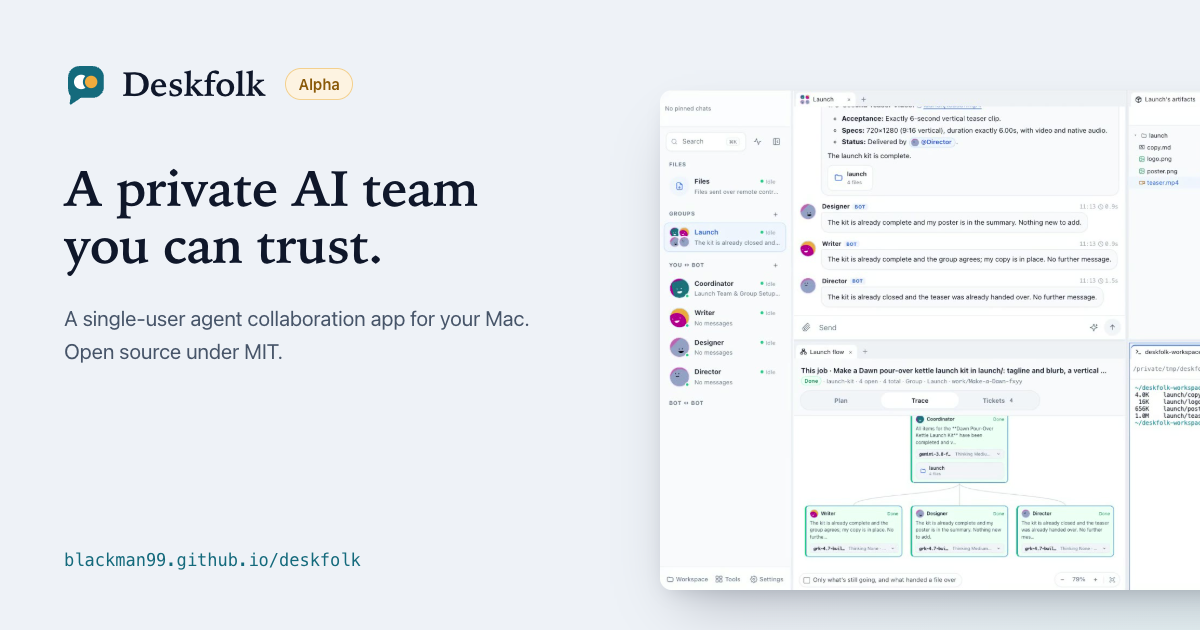
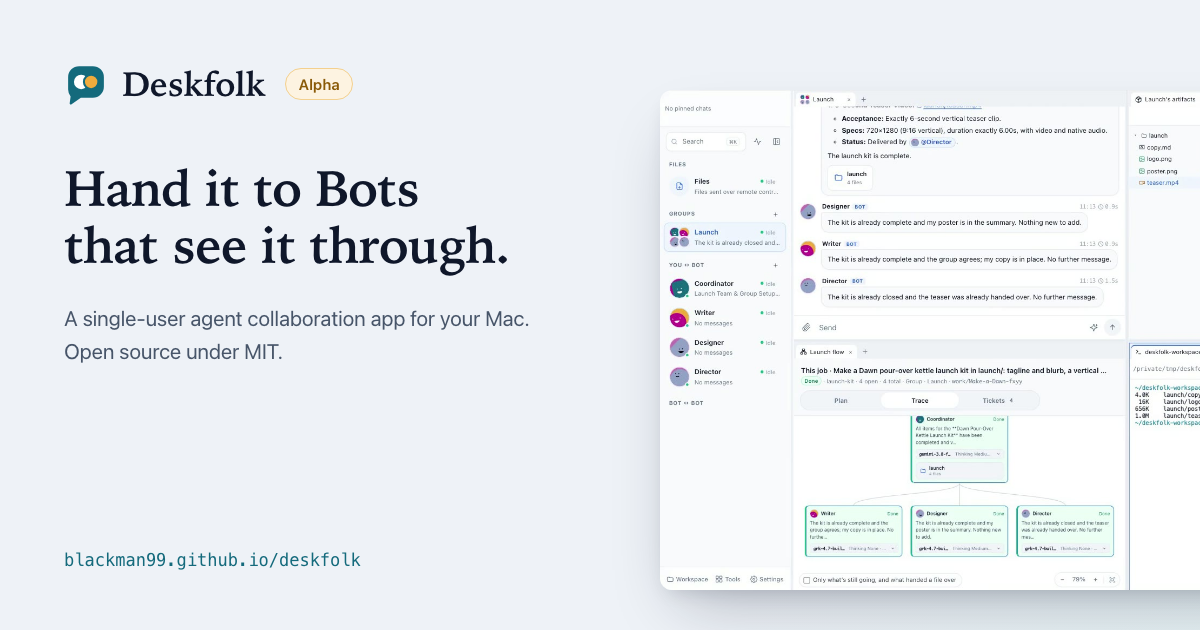
docs: narrow the positioning to "Hand it to Bots that see it through"
One tagline everywhere it is stated: both READMEs, the website's first
screen and SEO, the OG images, the GitHub social preview and Settings ->
About. Under it, the README and About now say how instead of describing
the split-pane workbench (Bots split and hand on the work, stalls get
chased, unverified claims get called out, every step is on record); the
website says what kind of job and for whom.

"Why you can trust it" becomes "Why you can hand it over", with the
delivery check and stall chasing first, and "It stays on your Mac" now
says exactly what stays local and that each turn's context goes to the
configured endpoint. The README gains "Who it's for", including what it
is not yet for. CONTEXT.md's opening line follows, and the roadmap gains
a "Current focus": a measured completion rate for the core loop first,
then the first run, everything else in maintenance.

Changed region(s): [[0.0308, 0.2714, 0.4317, 0.4524], [0.7092, 0.181, 0.74, 0.2111]]

diff --git a/apps/landing/src/lib/i18n.ts b/apps/landing/src/lib/i18n.ts
@@ -39,10 +39,11 @@ export type Dict = {
   hero: {
     headline: string;
     headlineLines: string[];
+    /** What kind of job and who it is for; the trust list below says how. */
     subhead: string;
     /** Heading of the list below the subhead. */
     trustLabel: string;
-    /** What the headline's "trust" rests on, one claim per item. */
+    /** What the headline's promise rests on, one claim per item. */
     trust: { label: string; body: string }[];
     wipNote: string;
     ctaPrimary: string;
@@ -148,15 +149,15 @@ const zh: Dict = {
     themeDark: '暗色'
   },
   hero: {
-    headline: '组一支你信得过的私人 AI 团队。',
-    headlineLines: ['组一支你信得过的', '私人 AI 团队。'],
-    subhead: '工作台自由组合：会话、终端、流程图和工作区，想怎么分屏就怎么摆。',
-    trustLabel: '为什么信得过',
+    headline: '交给一组 Bot，盯到交付。',
+    headlineLines: ['交给一组 Bot，', '盯到交付。'],
+    subhead: '一份调研报告、一套发布物料、一个带测试的小工具，交给几个 Bot 分工交接。面向自带模型端点的独立开发者和小工作室。',
+    trustLabel: '为什么放心交给它',
     trust: [
-      { label: '都在你的 Mac 上。', body: '窗口、运行时、会话和工作区都在本机；模型端点和 MCP 工具由你接入，密钥进钥匙串。' },
-      { label: '危险动作先问你。', body: '工作区外读写、出站网络、新接 MCP 或端点，都等你批准才做；私聊里随时能 Stop。' },
+      { label: '交付前先自查。', body: '交文件前先对一遍验收：漏掉的补上或说清去向，「测试通过」要有跑过的命令作证。' },
+      { label: '停在半路有人管。', body: '一件事静下来却还有任务没做完，应用先叫回那个 Bot，还不动就告诉你。' },
       { label: '做了什么都看得见。', body: '一件事一张流程图：谁叫醒了谁、每轮交出哪些文件、用了哪个模型、为什么。' },
-      { label: '交付前先自查。', body: '交文件给你之前，先拿你最初的要求对一遍；漏掉的要么补上，要么说清去向。' }
+      { label: '危险动作先问你。', body: '会话和文件在本机，模型调用走你接入的端点；工作区外读写、出站网络、新工具要你批准。' }
     ],
     wipNote: 'Alpha 版本：macOS 未签名快照，功能与数据结构仍会变化。',
     ctaPrimary: '下载 Alpha（macOS）',
@@ -334,9 +335,9 @@ const zh: Dict = {
     contributors: 'Deskfolk Contributors'
   },
   seo: {
-    title: 'Deskfolk — 组一支你信得过的私人 AI 团队',
+    title: 'Deskfolk — 交给一组 Bot，盯到交付',
     description:
-      'macOS 本地单人 agent 协作应用：Bot 有名字、职责和边界，可以私聊、进群、被 @ 点名、彼此交接；一件事一张流程图，桌面窗能分屏开终端。窗口、运行时、会话和共享工作区都在本机，模型端点和 MCP 工具由你接入，危险动作先等你批准。MIT 开源，Alpha 阶段。',
+      'macOS 本机的 AI 团队：几个 Bot 分工交接，把一份调研报告、一套发布物料或一个小工具做到交付。交付前按验收自查，停在半路会被追，说「测试通过」要有跑过的命令作证，每一步都画在流程图上。会话和文件在本机，模型端点和 MCP 工具由你接入，危险动作先等你批准。面向会自己配模型端点的独立开发者与小工作室。MIT 开源，Alpha 阶段。',
     imageAlt: 'Deskfolk：一个窗口里并排着群聊、流程图、生成的预告片和终端'
   },
   docs: {
@@ -394,15 +395,15 @@ const en: Dict = {
     themeDark: 'Dark'
   },
   hero: {
-    headline: 'A private AI team you can trust.',
-    headlineLines: ['A private AI team', 'you can trust.'],
-    subhead: 'A workbench you arrange freely: chats, terminals, flow boards and the workspace, split however you like.',
-    trustLabel: 'Why you can trust it',
+    headline: 'Hand it to Bots that see it through.',
+    headlineLines: ['Hand it to Bots', 'that see it through.'],
+    subhead: 'Reports, launch kits, small tools with tests: a few Bots split the job and hand it on. For solo developers and small studios with their own model endpoint.',
+    trustLabel: 'Why you can hand it over',
     trust: [
-      { label: 'It stays on your Mac.', body: 'Runtime, chats and workspace are local; models run on endpoints you add.' },
-      { label: 'It asks first.', body: 'Files outside the workspace, outbound network and new MCP or endpoints need your OK.' },
+      { label: 'It checks before delivery.', body: 'Checked against the done-when; "tests pass" needs a command that ran.' },
+      { label: 'Stalls get chased.', body: 'A job gone quiet with tickets open calls its Bot back, then tells you if nothing moves.' },
       { label: 'It shows its work.', body: 'A flow per job: who woke whom, what each turn handed over, which model and why.' },
-      { label: 'It checks before delivery.', body: 'Files are checked against what you first asked; gaps get filled or explained.' }
+      { label: 'It asks first.', body: 'Local files, models on endpoints you add; outside access and new tools need your OK.' }
     ],
     wipNote: 'Alpha: unsigned macOS snapshot. Features and data structures may still change.',
     ctaPrimary: 'Download alpha (macOS)',
@@ -580,9 +581,9 @@ const en: Dict = {
     contributors: 'Deskfolk Contributors'
   },
   seo: {
-    title: 'Deskfolk — A private AI team you can trust',
+    title: 'Deskfolk — Hand it to Bots that see it through',
     description:
-      'A single-user agent collaboration app for macOS. Bots have names, duties and boundaries; they chat one to one, join groups, get @mentioned and hand work to each other. Every job reads as a flow, and the window splits into panes with your own terminal. Window, runtime, sessions and shared workspace stay on your Mac; you plug in the model endpoints and MCP tools, and risky actions wait for your approval. MIT, alpha.',
+      'A local AI team for macOS: Bots split the work and hand it on until a research report, a launch kit or a small tool is delivered. Deliveries are checked against the done-when, stalled jobs get chased, a "tests pass" needs a command that actually ran, and every step is drawn on a flow board. Chats and files stay on your Mac; you plug in the model endpoints and MCP tools, and risky actions wait for your approval. For solo developers and small studios who bring their own model endpoint. MIT, alpha.',
     imageAlt: 'Deskfolk: a group chat, its flow, the teaser the team made and a terminal side by side in one window'
   },
   docs: {

diff --git a/apps/messenger/src/lib/copy.ts b/apps/messenger/src/lib/copy.ts
@@ -356,8 +356,8 @@ const zh = {
     themeDesc: "界面外观配色偏好",
     languageDesc: "界面所使用的显示语言",
     launchDesc: "系统登录时在后台自动启动 Deskfolk",
-    aboutSubtitle: "组一支你信得过的私人 AI 团队。",
-    aboutDescription: "工作台自由组合：会话、终端、流程图和工作区，想怎么分屏就怎么摆。",
+    aboutSubtitle: "交给一组 Bot，盯到交付。",
+    aboutDescription: "几个 Bot 分工交接，应用盯着验收：停在半路会追，没验证过会直说，每一步都查得到。",
     remoteSection: "远控（实验性）",
     remoteSubtitle: "浏览器配对身份只存在本机 IndexedDB。聊天、快照、草稿、命令和文件不持久化。",
     sectionEndpoint: "端点与鉴权",
@@ -1626,9 +1626,9 @@ const en: CopyShape<typeof zh> = {
     themeDesc: "Color theme for the interface",
     languageDesc: "Display language for the interface",
     launchDesc: "Start Deskfolk automatically when logging into macOS",
-    aboutSubtitle: "A private AI team you can trust.",
+    aboutSubtitle: "Hand it to Bots that see it through.",
     aboutDescription:
-      "A workbench you arrange freely: chats, terminals, flow boards and the workspace, split however you like.",
+      "Bots split the work and hand it on; stalls get chased, unverified claims get called out, and every step is on record.",
     remoteSection: "Remote (experimental)",
     remoteSubtitle: "Browser pairing identity lives in IndexedDB only. Chat, snapshots, drafts, commands and files are not persisted.",
     sectionEndpoint: "Endpoint & Auth",

diff --git a/apps/messenger/src/lib/copy.test.ts b/apps/messenger/src/lib/copy.test.ts
@@ -371,11 +371,11 @@ test("about card and update chrome are locked in both locales", () => {
   expect(COPY.zh.settings.sectionAbout).toBe("关于");
   expect(COPY.en.settings.sectionAbout).toBe("About");
   // The tagline and the line under the name are the README's, word for word.
-  expect(COPY.zh.settings.aboutSubtitle).toBe("组一支你信得过的私人 AI 团队。");
-  expect(COPY.en.settings.aboutSubtitle).toBe("A private AI team you can trust.");
-  expect(COPY.zh.settings.aboutDescription).toBe("工作台自由组合：会话、终端、流程图和工作区，想怎么分屏就怎么摆。");
+  expect(COPY.zh.settings.aboutSubtitle).toBe("交给一组 Bot，盯到交付。");
+  expect(COPY.en.settings.aboutSubtitle).toBe("Hand it to Bots that see it through.");
+  expect(COPY.zh.settings.aboutDescription).toBe("几个 Bot 分工交接，应用盯着验收：停在半路会追，没验证过会直说，每一步都查得到。");
   expect(COPY.en.settings.aboutDescription).toBe(
-    "A workbench you arrange freely: chats, terminals, flow boards and the workspace, split however you like.",
+    "Bots split the work and hand it on; stalls get chased, unverified claims get called out, and every step is on record.",
   );
   expect(COPY.zh.settings.version("0.1.0")).toBe("版本 0.1.0");
   expect(COPY.en.settings.version("0.1.0")).toBe("Version 0.1.0");

diff --git a/apps/landing/src/lib/demo/Walkthrough.svelte b/apps/landing/src/lib/demo/Walkthrough.svelte
@@ -459,6 +459,7 @@
     line-height: 1.75;
     color: var(--ink-2);
     max-width: 38em;
+    text-wrap: pretty;
   }
 
   /* Below the buttons on narrow screens, so they stay above the fold. */
@@ -493,6 +494,7 @@
     font-size: 15px;
     line-height: 1.6;
     color: var(--ink-2);
+    text-wrap: pretty;
   }
 
   .trust li::before {

diff --git a/README.md b/README.md
@@ -8,9 +8,9 @@
 
 <h1 align="center">Deskfolk</h1>
 
-<p align="center">A private AI team you can trust.</p>
+<p align="center">Hand it to Bots that see it through.</p>
 
-<p align="center">A workbench you arrange freely: chats, terminals, flow boards and the workspace, split however you like.</p>
+<p align="center">Bots split the work and hand it on; stalls get chased, unverified claims get called out, and every step is on record.</p>
 
 <p align="center">
   <a href="https://blackman99.github.io/deskfolk/"><b>Website</b></a> ·
@@ -25,13 +25,18 @@
   <a href="https://github.com/Blackman99/deskfolk/releases/latest"><img alt="Status: alpha" src="https://img.shields.io/badge/status-alpha-f0ab3d.svg"></a>
 </p>
 
-## Why you can trust it
+## Why you can hand it over
 
-- **It stays on your Mac.** Window, daemon, sessions and the shared workspace stay local. Bring any OpenAI-compatible endpoint and MCP servers; keys go to Keychain.
-- **It asks before risky moves.** New endpoints or MCP servers, access outside the workspace and outbound network wait for your approval. What waits on you is marked on the conversation list, with macOS banners and a Dock badge. Stop ends a running turn in a direct chat at any time.
-- **It shows its work.** Every plan is a flow: the app files each message you send into a plan and its tickets, keeps the goal, the done-when and your rules as the plan's spec, and draws the work as a card per turn by who woke whom, carrying the files that turn handed over, the ticket it worked in, and the model it ran on and why. You can open the direct chats Bots have with each other, too.
 - **It checks before handing over.** Before a Bot hands you files, the files and its wrap-up are checked against the plan's spec, or against what you first asked for until the app has written one; anything missing gets done, or the Bot says who has it, why it was left out or when it will be done. A "tests pass" or "verified in the browser" has to match a command it actually ran, or it goes back to run it or to say it was not verified.
 - **A job that stalls gets noticed.** Tickets on the flow board move with the work; when a job goes quiet with tickets still open, the app calls the Bot on it back once, and tells you if nothing moves.
+- **It shows its work.** Every plan is a flow: the app files each message you send into a plan and its tickets, keeps the goal, the done-when and your rules as the plan's spec, and draws the work as a card per turn by who woke whom, carrying the files that turn handed over, the ticket it worked in, and the model it ran on and why. You can open the direct chats Bots have with each other, too.
+- **It asks before risky moves.** New endpoints or MCP servers, access outside the workspace and outbound network wait for your approval. What waits on you is marked on the conversation list, with macOS banners and a Dock badge. Stop ends a running turn in a direct chat at any time.
+- **The work and the files stay on your Mac.** Window, daemon, sessions and the shared workspace are local, and keys go to Keychain. You bring the models and MCP servers: any OpenAI-compatible endpoint works, and each turn's context goes to the endpoint you configured.
+
+## Who it's for
+
+- **For** solo developers, technical individuals and small studios who can set up a model endpoint and API key themselves, with a job that needs a few roles and several file-producing steps: a research report, a launch kit, a small tool with tests and a start command.
+- **Not yet for** several people sharing one setup, Windows or Linux, work that has to carry on while the Mac sleeps, or anyone who would rather not bring their own model endpoint.
 
 ## What it does
 

diff --git a/README.zh.md b/README.zh.md
@@ -8,9 +8,9 @@
 
 <h1 align="center">Deskfolk</h1>
 
-<p align="center">组一支你信得过的私人 AI 团队。</p>
+<p align="center">交给一组 Bot，盯到交付。</p>
 
-<p align="center">工作台自由组合：会话、终端、流程图和工作区，想怎么分屏就怎么摆。</p>
+<p align="center">几个 Bot 分工交接，应用盯着验收：停在半路会追，没验证过会直说，每一步都查得到。</p>
 
 <p align="center">
   <a href="https://blackman99.github.io/deskfolk/zh"><b>官网</b></a> ·
@@ -25,13 +25,18 @@
   <a href="https://github.com/Blackman99/deskfolk/releases/latest"><img alt="Status: alpha" src="https://img.shields.io/badge/status-alpha-f0ab3d.svg"></a>
 </p>
 
-## 为什么信得过
+## 为什么放心交给它
 
-- **都在你的 Mac 上。** 窗口、守护进程、会话和共享工作区都在本机；任意 OpenAI 兼容端点和 MCP 服务器自己接，密钥进钥匙串。
-- **危险动作先问你。** 新建端点或 MCP、工作区外读写和出站网络都要你批准；等你的事标在会话列表上，配合 macOS 横幅和 Dock 角标。私聊里进行中的一轮随时能 Stop。
-- **做了什么都看得见。** 一个规划一张流程图：你发的每条消息由应用归到规划和任务，目标、验收和你定的规则记成规划要点；经过按谁叫醒了谁画出来，一轮一张卡片，交出的文件、干的任务、用的模型和理由都挂在卡片上。Bot 之间的私聊你也能打开看。
 - **交付前先自查。** Bot 交文件给你之前，先拿规划要点（还没整理出要点时用最初的要求）对一遍已交出的文件和收尾；漏掉的要么补上，要么说清交给谁、为什么不交、什么时候做。说「测试通过」「在浏览器里验证过」的，要在它真正跑过的命令里找得到，找不到就退回去跑，或写明没验证。
 - **停在半路有人管。** 流程图上的任务跟着实际进展变；一件事静下来却还有任务没做完，应用先叫一次那个任务上的 Bot，还没动静就告诉你。
+- **做了什么都看得见。** 一个规划一张流程图：你发的每条消息由应用归到规划和任务，目标、验收和你定的规则记成规划要点；经过按谁叫醒了谁画出来，一轮一张卡片，交出的文件、干的任务、用的模型和理由都挂在卡片上。Bot 之间的私聊你也能打开看。
+- **危险动作先问你。** 新建端点或 MCP、工作区外读写和出站网络都要你批准；等你的事标在会话列表上，配合 macOS 横幅和 Dock 角标。私聊里进行中的一轮随时能 Stop。
+- **执行和文件在你的 Mac 上。** 窗口、守护进程、会话和共享工作区都在本机，密钥进钥匙串。模型和 MCP 服务器由你接：任意 OpenAI 兼容端点都行，每一轮的上下文发给你配置的那个端点。
+
+## 适合谁
+
+- **适合**：会自己配模型端点和 API key 的独立开发者、技术型个人和小工作室，手上有一件要几个角色分工、分几步交出文件的活，比如一份调研报告、一套发布物料、一个带测试和启动说明的小工具。
+- **暂不适合**：几个人共用一套、要 Windows 或 Linux、要 Mac 睡眠时也接着干活，或者不想自己接模型端点。
 
 ## 它做什么
 

diff --git a/CHANGELOG.md b/CHANGELOG.md
@@ -6,6 +6,8 @@ All notable changes to Deskfolk are documented in this file. The project is curr
 
 ## Unreleased
 
+- The positioning narrows to one promise: "Hand it to Bots that see it through." The README, the website's first screen and SEO, and Settings → About carry it as the tagline. In the README and About, the line under it now says how instead of describing the split-pane workbench: Bots split and hand on the work, stalls get chased, unverified claims get called out, every step is on record. On the website the line under it says what kind of job and for whom: reports, launch kits, small tools with tests, for solo developers and small studios with their own model endpoint. "Why you can trust it" becomes "Why you can hand it over", with the delivery check and stall chasing first, and "It stays on your Mac" now says exactly what stays: the work and the files are local, and each turn's context goes to the model endpoint you configured. The README gains "Who it's for", including what it is not yet for: several people sharing one setup, Windows or Linux, work that has to carry on while the Mac sleeps, or not bringing your own model endpoint. The roadmap gains a "Current focus": first a measured completion rate for the core loop, then the first run, with everything around it in maintenance.
+
 - Running from source (`pnpm dev`), Stage Manager shows the Deskfolk icon beside the window. The Dock already did, but the `Deskfolk Dev.app` wrapper that `tauri dev` runs in had no icon of its own, and Stage Manager showed a blank app. The wrapper now carries the app's icon and registers itself again the first time it gains it.
 
 - After installing an update, the app asks for Keychain access once instead of once for every endpoint and MCP server. The installed runtime is signed ad hoc, so each new version is a program the Keychain has not seen before, and it used to ask for your login password for every key it read: with three endpoints and one MCP server, four prompts on the first launch of every update. All keys now live in one Keychain entry (`com.real-bot.daemon` / `credentials`). The first launch after this update still asks once for each key you already had, to move it over; after that, one prompt per update. The old entries stay so an older version still finds its keys, and go when you change or delete that key. Windows and Linux keep one entry per key, as their credential stores do not ask again after an update. Why this and not a file or an unrestricted entry is in [ADR 0034](docs/adr/0034-one-keychain-entry-on-macos.md).

diff --git a/CHANGELOG.zh.md b/CHANGELOG.zh.md
@@ -6,6 +6,8 @@
 
 ## Unreleased
 
+- 定位收窄到一件事：「交给一组 Bot，盯到交付」。README、官网首屏与 SEO、设置 → 关于里的标语都换成这句。README 和「关于」里标语下那一行从分屏工作台换成背后的机制（分工交接、停在半路会追、没验证过会直说、每一步查得到）；官网首屏的副标题改说什么活、给谁用：调研报告、发布物料、带测试的小工具，面向自带模型端点的独立开发者和小工作室。「为什么信得过」改为「为什么放心交给它」，交付前自查和停在半路有人管排到最前；「都在你的 Mac 上」改说准：执行和文件在本机，每一轮的上下文发给你配置的模型端点。README 新增「适合谁」，也写明暂不适合的用法：多人共用、Windows 和 Linux、要 Mac 睡眠时接着干活、不想自己接模型端点。路线图新增「当前重点」：先把核心循环的完成率跑出数字，再是第一次上手，外围功能只维护。
+
 - 从源码运行（`pnpm dev`）时，台前调度里窗口旁边也显示 Deskfolk 的图标了。Dock 里一直是对的，但 `tauri dev` 所用的 `Deskfolk Dev.app` 外壳自己没有图标，台前调度里就是一个空白应用。现在外壳带上了应用图标，第一次加上图标时会重新向系统登记一次。
 
 - 装完更新后，应用只问一次钥匙串访问，不再每个端点、每个 MCP 服务器各问一次。安装版的运行时是 ad-hoc 签名，每个新版本对钥匙串来说都是没见过的程序，以前它每读一个 key 就要你输一次登录密码：配了三个端点和一个 MCP，每次更新后第一次启动就弹四个框。现在所有 key 都放在一个钥匙串项里（`com.real-bot.daemon` / `credentials`）。这次更新后的第一次启动，已有的每个 key 还会各问一次，用来把它搬过来；之后每次更新只问一次。旧的项保留着，回装老版本时照样找得到 key；在新版本里改或删这个 key 时才删掉。Windows 和 Linux 仍是一个 key 一项，那里的凭据库不会因为更新而再问。为什么不改成文件、也不放开钥匙串访问限制，见 [ADR 0034](docs/adr/0034-one-keychain-entry-on-macos.md)。

diff --git a/ROADMAP.en.md b/ROADMAP.en.md
@@ -4,6 +4,16 @@
 
 > **WIP — this is a direction of work, not a stable-release commitment or a delivery schedule.** The current priority is single-person, local Bot collaboration on macOS. What is already built still needs ongoing verification against real endpoints and in the UI.
 
+## Current focus
+
+Positioning: "Hand it to Bots that see it through", a team of Bots that sees one job through to delivery. It is for solo developers, technical individuals and small studios who can set up a model endpoint and API key themselves, with a job that needs a few roles and several file-producing steps: a research report, a launch kit, a small tool with tests and a start command.
+
+Time goes to these, in this order:
+
+1. **How often the core loop finishes.** Run a fixed set of tasks on the golden path (both ways of forming a team: you create the Bots, or a Coordinator hires them), judge every finished job requirement by requirement with the goal-coverage eval, and count the completion rate and how often each job needed you (approvals, answers, stalls reported to you). The runner exists: `eval:golden-path` runs three fixed jobs (a research report, launch copy with a landing page, a small tool with tests) × both ways of forming a team, each in an isolated runtime until it settles, then judges completion with the judge model plus deterministic checks; it has not been run on a real model for a baseline yet. Until those numbers exist, "sees the job through" is described by its mechanisms, not promised as a result; once they do, they go into the README and the website, and every change to the core loop is run against them again.
+2. **The first run.** Proper signing and notarization (the release workflow is ready and waits for a Developer ID certificate), and the path from the setup wizard to the first delivered job.
+3. **Everything around it is in maintenance.** Remote access, Office previews, annotations, routines, Spend, global search and the split-pane workbench get bug fixes and follow core changes, but no new surface. Remote access's security review and on-device checks stay queued and don't take time from the core loop.
+
 ## 1. Local collaboration and open integration
 
 Groundwork in place:

diff --git a/ROADMAP.md b/ROADMAP.md
@@ -4,6 +4,16 @@
 
 > **WIP — 这是建设方向，不是稳定版承诺或交付时间表。** 当前优先支持 macOS 上的单人、本地 Bot 协作。已实现能力也需要持续进行真实端点与 UI 验证。
 
+## 当前重点
+
+定位：交给一组 Bot，盯到交付。面向会自己配模型端点和 API key 的独立开发者、技术型个人和小工作室，手上有一件要几个角色分工、分几步交出文件的活：一份调研报告、一套发布物料、一个带测试和启动说明的小工具。
+
+接下来的时间按这个顺序花：
+
+1. **核心循环的完成率。** 在黄金路径上跑一组固定任务（你手建团队、Coordinator 自己招人两种组队方式都跑），每件事跑完用目标覆盖评估逐条判验收，数出完成率和每件事要人插手几次（批准、回答、停在半路被报给你）。跑法已经有了：`eval:golden-path`，三件固定的事（调研报告、上线文案加落地页、带测试的小工具）× 两种组队，每次在隔离运行时里跑到静下来，再用评判模型加确定性检查判完成；还没用真实模型跑出基线。数字出来之前，「盯到交付」只按机制来讲，不当成结果承诺；数字出来后写进 README 和官网，之后每次改核心循环都重跑一遍对照。
+2. **第一次上手。** 正式签名与公证（发布流程已经就绪，等 Developer ID 证书），以及从首启向导到第一件事交付的这段路。
+3. **外围功能只维护。** 远程访问、办公文件预览、批注、日程、花费、全局搜索、工作台分屏：修 bug、跟着核心改动走，不再扩面。远程访问的安全复核和真机验收照旧排着，不占核心循环的时间。
+
 ## 1. 本地协作与开放接入
 
 已有基础：

diff --git a/CONTEXT.en.md b/CONTEXT.en.md
@@ -2,7 +2,7 @@
 
 [简体中文](CONTEXT.md)
 
-A single-person agent collaboration app running locally on macOS. Its way of collaborating matches Grok Bot: named, persistent teammates, directs, groups, mentions, and asynchronous handoffs; the computer is a shared folder on this Mac, not a cloud VM.
+A single-person agent collaboration app running locally on macOS: a team of named, persistent Bots splits one job and hands it on until it is delivered, while the app keeps the plan and its done-when in view, chases what stalls and checks the delivery first. They collaborate through directs, groups, mentions and asynchronous handoffs (modelled on Grok Bot); the computer is a shared folder on this Mac, not a cloud VM.
 
 > **WIP**: This document defines the domain language; it is not a statement that every capability has passed acceptance. For the current scope, see the [README](README.md); for the direction of work on agent decisions, feedback on automatic tasks, reflection after each run, and full coverage of conversation operations, see the [roadmap](ROADMAP.md).
 

diff --git a/CONTEXT.md b/CONTEXT.md
@@ -2,7 +2,7 @@
 
 [English](CONTEXT.en.md)
 
-本机 macOS 上的单人 agent 协作应用。协作形态对齐 Grok Bot：命名持久的队友、私聊、群、点名、异步交接；电脑是本机共享目录，不是云 VM。
+本机 macOS 上的单人 agent 协作应用：一组命名持久的 Bot 分工交接，把一件事做到交付；应用替你盯着规划和验收，停在半路的去追，交付前先自查。协作形态是私聊、群、点名和异步交接（参照 Grok Bot）；电脑是本机共享目录，不是云 VM。
 
 > **WIP**：本文定义领域语言，不是所有能力均已完成验收的声明。当前范围见 [README](README.md)；agent 决策、自动任务反馈、逐次反思及完整对话操作覆盖的建设方向见[路线图](ROADMAP.md)。
 
